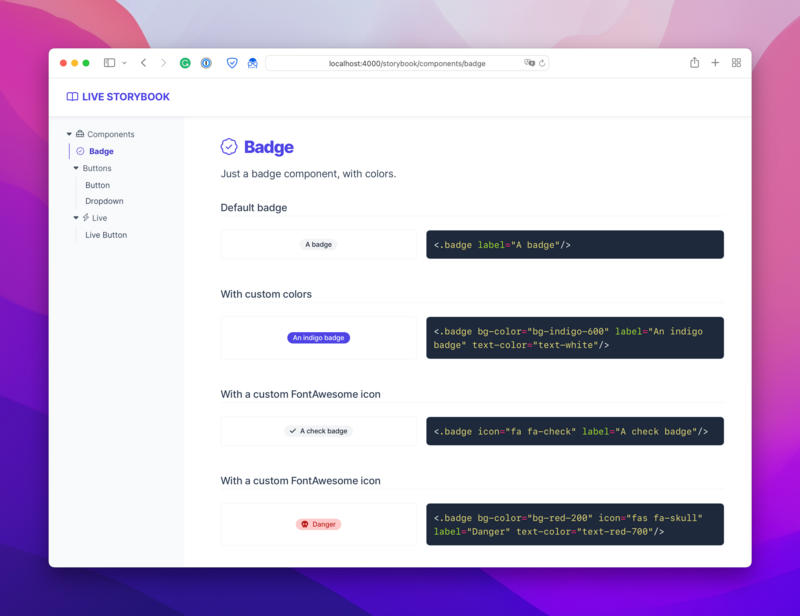
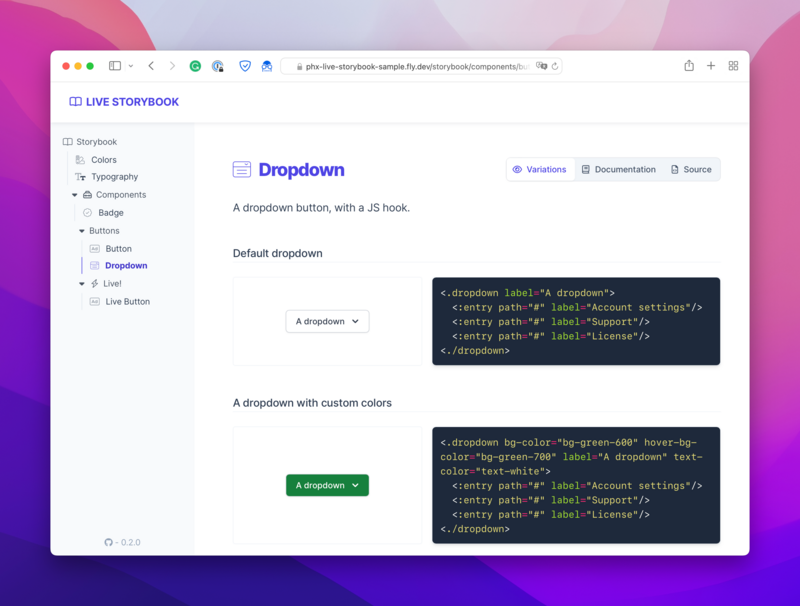
documentation

diff --git a/README.md b/README.md
@@ -195,7 +195,8 @@ config :my_app, MyAppWeb.Storybook,
   # - give it a custom name in the sidebar
   # - give it a custom icon in the sidebar, with a FontAwesome 6+ CSS class.
   folders: [
-    components: [icon: "far fa-toolbox", open: true],
+    "/": [icon: "fas fa-banana"],
+    "/components": [icon: "far fa-toolbox", open: true],
     "components/live": [icon: "fal fa-bolt", name: "Live!!!"]
   ]
 ```

diff --git a/CHANGELOG.md b/CHANGELOG.md
@@ -2,8 +2,9 @@
 
 ## v0.2.0 (unreleased yet)
 
-- added new tab to browse your component sources
-- added work-in-progress component documentation source
+- feature: new tab to browse your component sources
+- feature: work-in-progress component documentation source
+- feature: new page entry support, which allows you create custom pages within your storybook
 
 ## v0.1.0 (2022-07-26)
 
